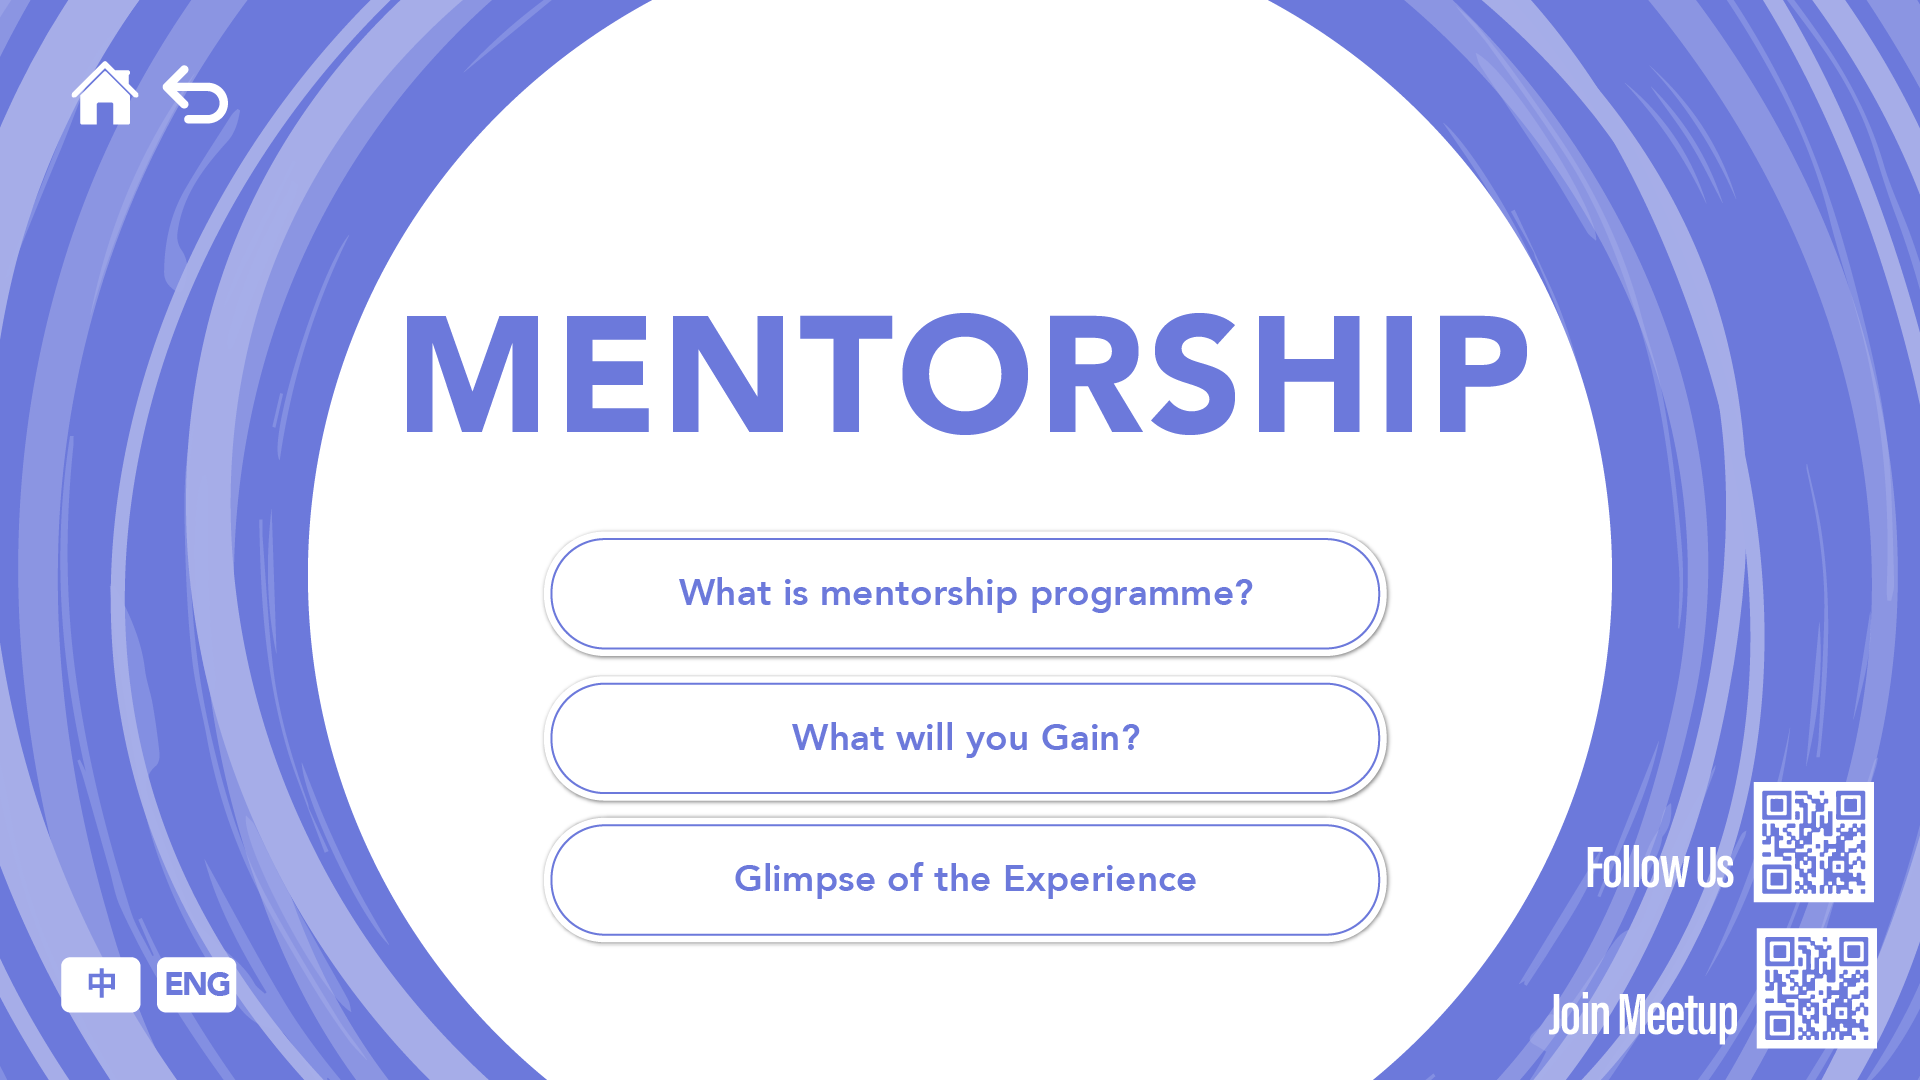
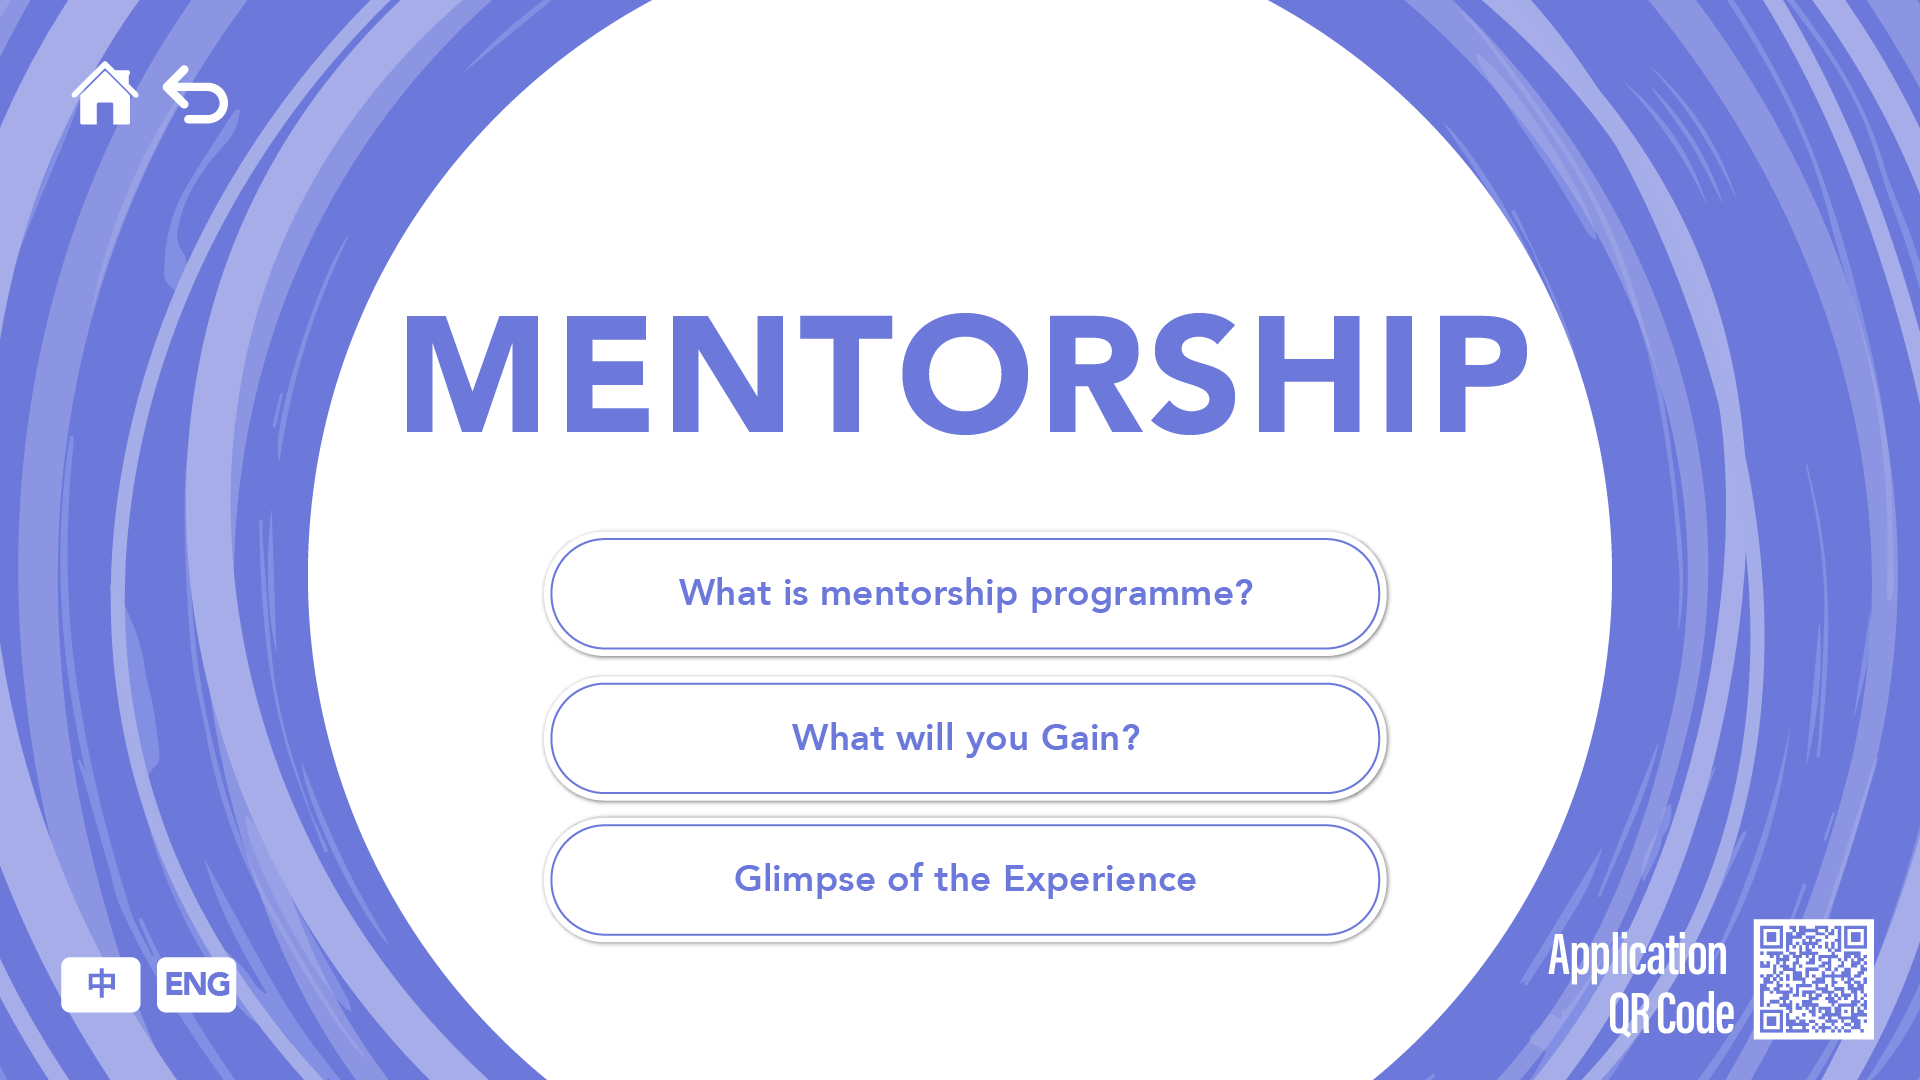
dev

Changed region(s): [[0.7812, 0.7028, 1.0, 0.9778]]

diff --git a/zonec/style.css b/zonec/style.css
@@ -25,11 +25,10 @@ body {
 #backgroundDiv {
   position: relative;
   background-size: cover;
-  height: 822px;
-  width: 1465px;
+  background-repeat: no-repeat;
+  width: 100vw; /* Set the width to 100% of the viewport width */
+  height: 100vh;
   display: flex;
-  align-items: center;
-  justify-content: center;
 }
 
 #back {
@@ -40,33 +39,33 @@ body {
 }
 
 #btnBack {
-  top: 45px;
-  left: 125px;
-  width: 50px;
-  height: 50px;
+  top: 5vh;
+  left: 8vw;
+  width: 5vw;
+  height: 7vh;
 }
 
 #btnHome {
-  top: 45px;
-  left: 55px;
-  width: 50px;
-  height: 50px;
+  top: 5vh;
+  left: 3vw;
+  width: 5vw;
+  height: 7vh;
 }
 
 /** Introduction **/
 .introduction {
   color: #a8e5bd;
   font-family: "Avenir";
-  font-size: 40px;
+  font-size: 57px;
   text-align: center;
 }
 
 #overlayButton {
   position: absolute;
-  top: 670px;
-  left: 655px;
-  width: 155px;
-  height: 75px;
+  top: 81vh;
+  left: 45vw;
+  width: 10vw;
+  height: 10vh;
   cursor: pointer;
   background-color: rgba(255, 255, 255, 0);
 }
@@ -80,24 +79,24 @@ body {
 }
 
 #btnHomeStartups {
-  top: 385px;
-  left: 33px;
-  width: 442px;
-  height: 170px;
+  top: 47vh;
+  left: 2vw;
+  width: 31vw;
+  height: 20vh;
 }
 
 #btnHomeMentorship {
-  top: 385px;
-  left: 512px;
-  width: 442px;
-  height: 170px;
+  top: 47vh;
+  left: 35vw;
+  width: 31vw;
+  height: 20vh;
 }
 
 #btnHomeAlumni {
-  top: 385px;
-  left: 990px;
-  width: 442px;
-  height: 170px;
+  top: 47vh;
+  left: 67vw;
+  width: 31vw;
+  height: 20vh;
 }
 /** end Home **/
 

diff --git a/zonec/introduction.html b/zonec/introduction.html
@@ -16,7 +16,11 @@
     <div
       id="backgroundDiv"
       class="demo"
-      style="background-image: url('image/introduction.png')"
+      style="
+        background-image: url('image/introduction.png');
+        align-items: center;
+        justify-content: center;
+      "
     >
       <div class="content introduction">
         Connecting People, Amplifying Ripples:<br />
